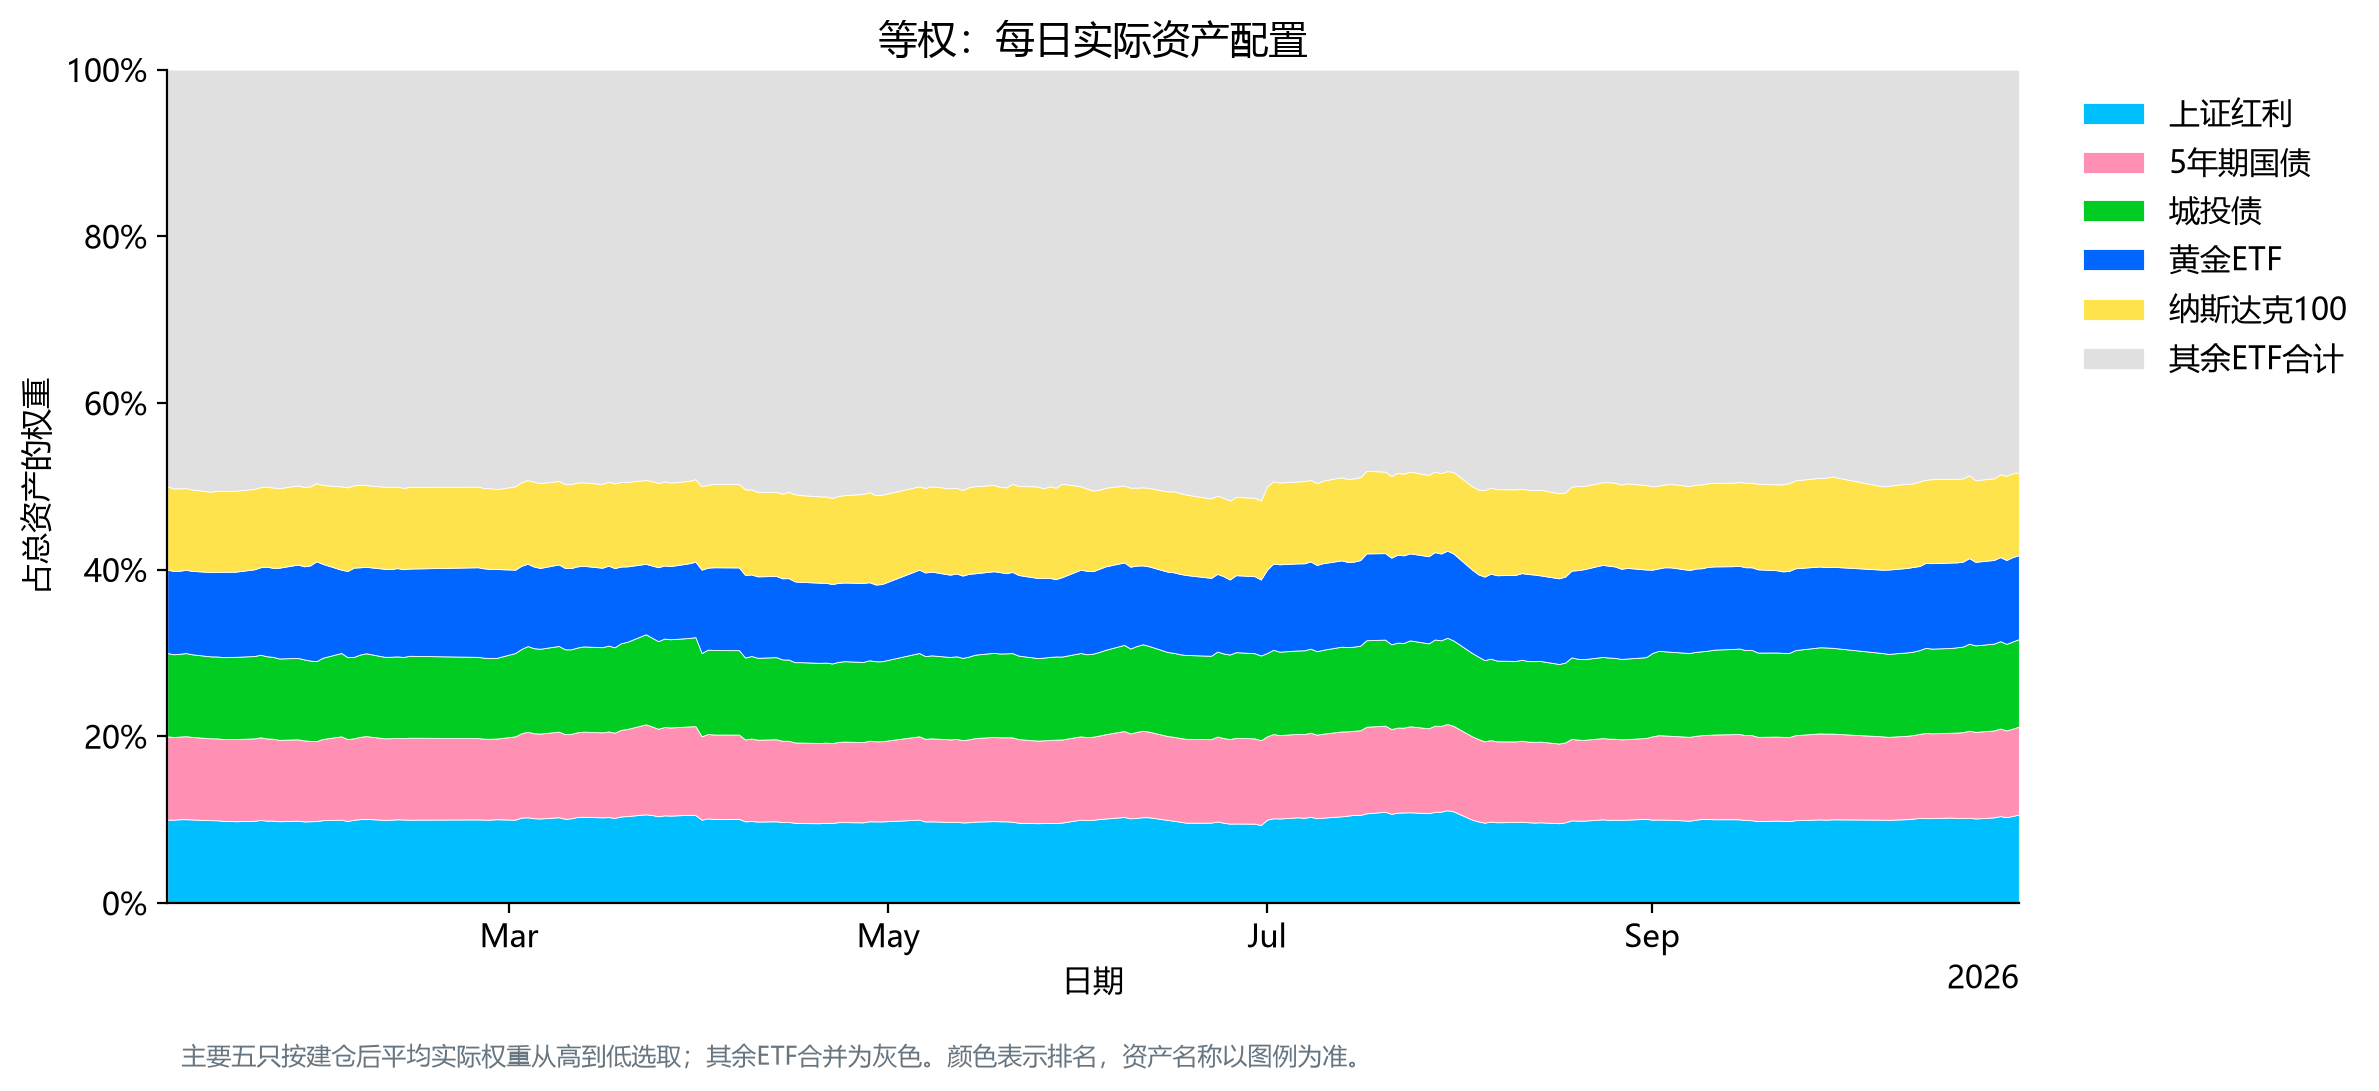
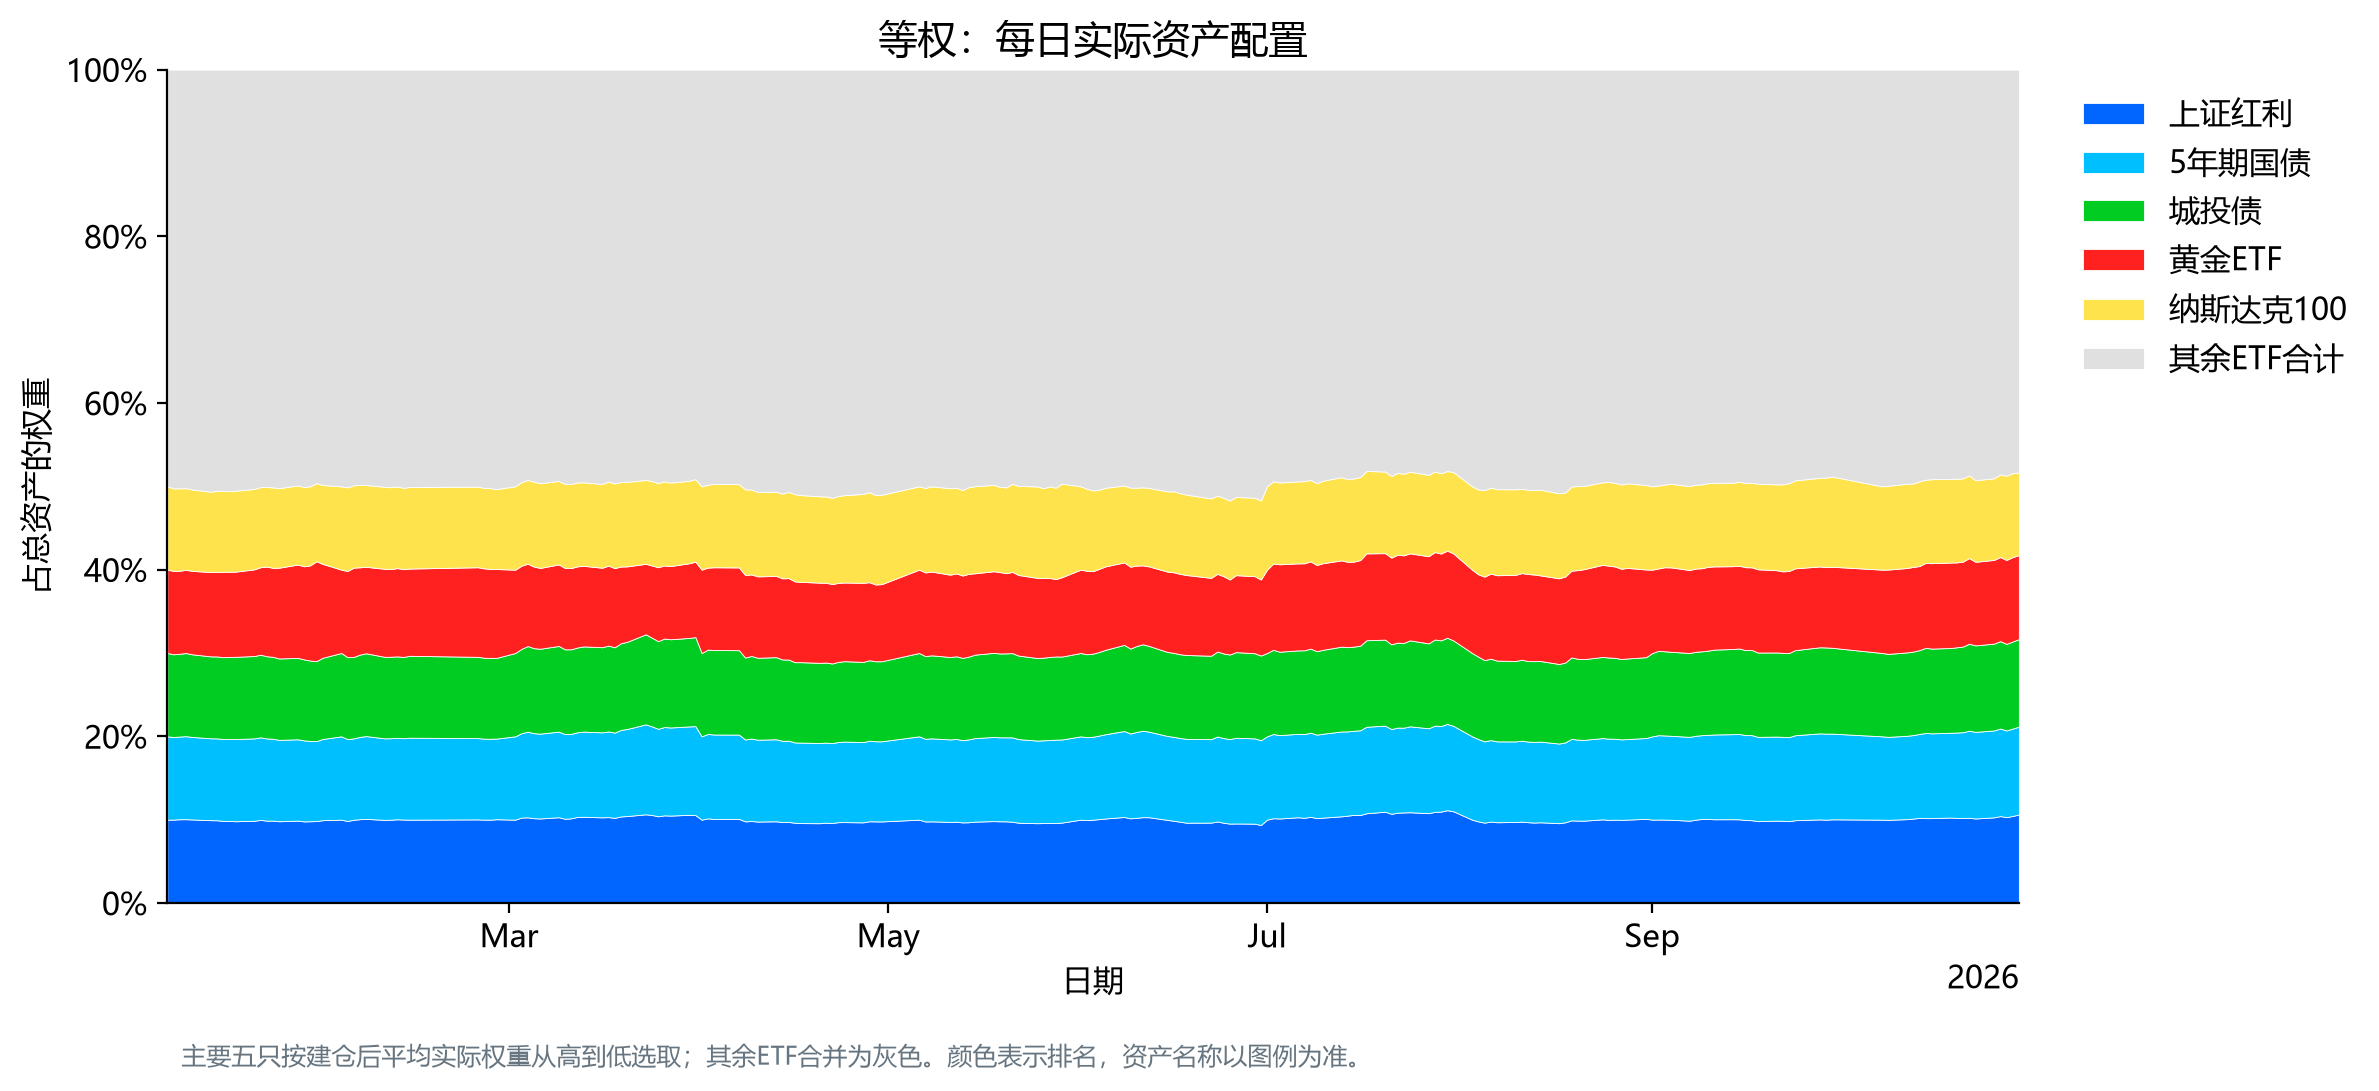
Add files via upload

diff --git a/plot.py b/plot.py
@@ -318,11 +318,11 @@ def plot_allocation(strategy, result):
 
     # 前五只按平均权重排名依次分配颜色
     colors = [
-        "#00BFFF",  # 第一名：青蓝
-        "#FF8FB3",  # 第五名：亮粉
+        "#0066FF",  # 第一名：亮蓝
+        "#00BFFF",  # 第二名：青蓝
         "#00CC22",  # 第三名：亮绿
-        "#0066FF",  # 第四名：亮钴蓝
-        "#FFE34D",  # 第二名：柠檬黄
+        "#FF2020",  # 第四名：亮红
+        "#FFE34D",  # 第五名：柠檬黄
         "#E0E0E0",  # 其余ETF：浅灰
     ]
 
